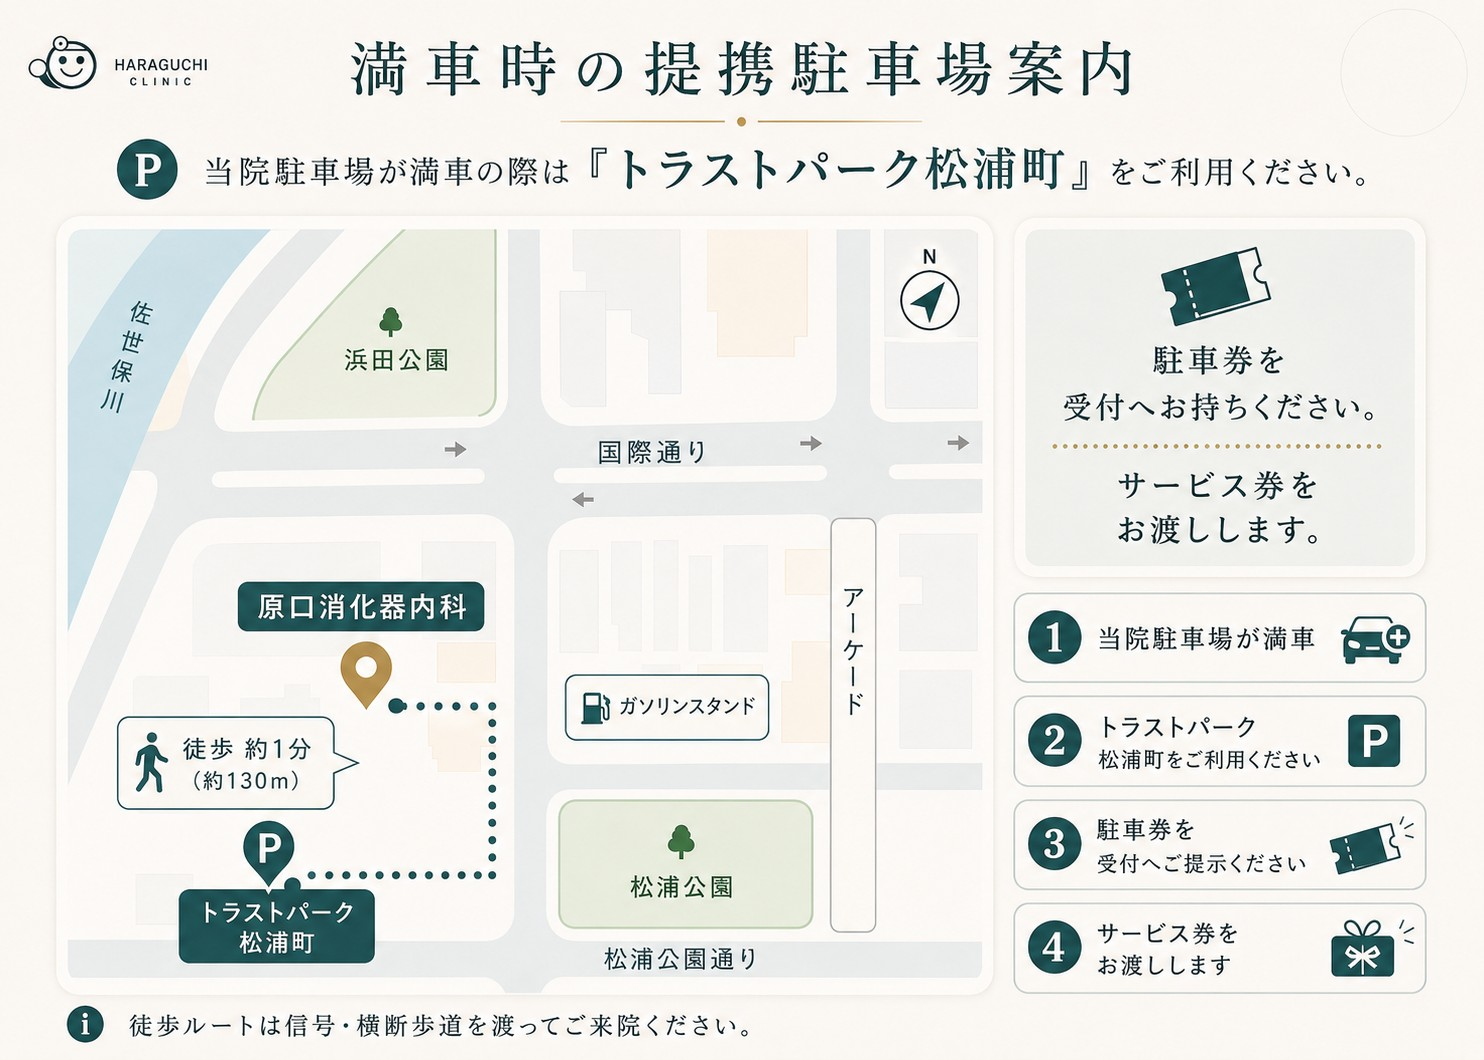
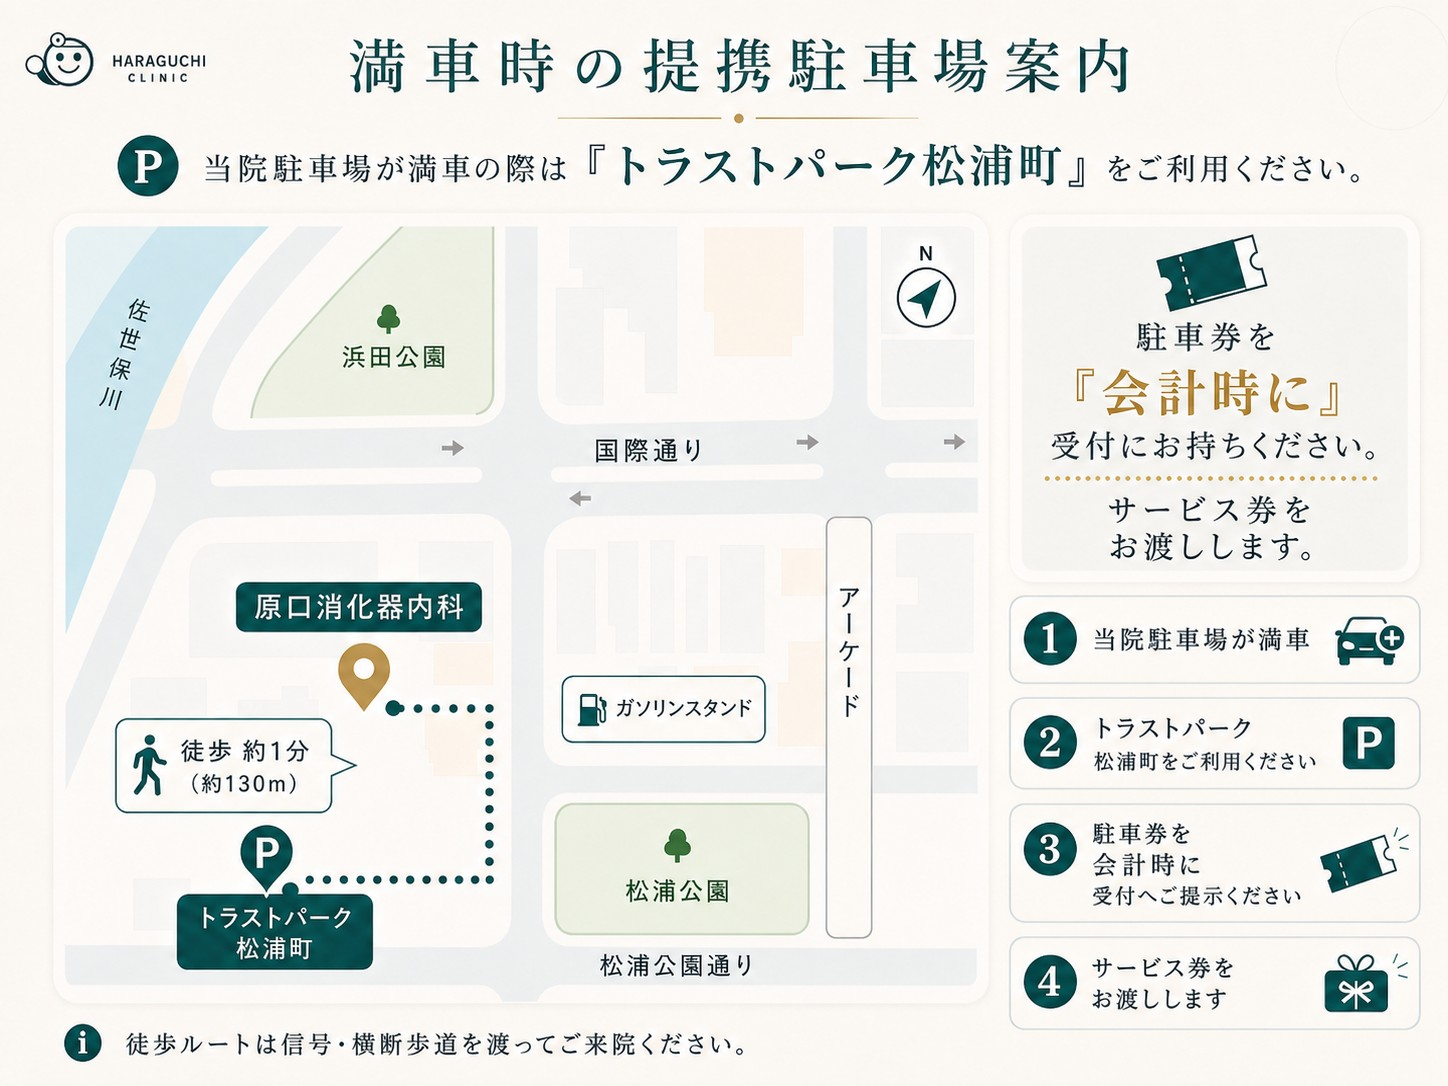
ワクチン・予約案内・駐車券の文言を実態に合わせて修正
肺炎球菌ワクチンが2種類あることを明記し、ワクチンは種類により予約要否が
異なる旨に統一。胃カメラは定期通院者も含めて事前予約が必要と修正し、
院内マスク着用のお願いを追加。駐車券は「会計時」に受付へ、という案内へ
文章・画像の両方を統一。

diff --git a/contact.html b/contact.html
@@ -98,7 +98,7 @@
                 <div class="section-head section-head--center" data-reveal>
                     <p class="kicker">Before Your Visit</p>
                     <h2 class="section-title" id="prepare-heading">ご来院前に</h2>
-                    <p class="section-lead">受診のしかた・持ち物・お支払いを、順にご案内します。</p>
+                    <p class="section-lead">受診のしかた・持ち物・お支払い・院内でのお願いを、順にご案内します。</p>
                 </div>
 
                 <div class="visit-steps">
@@ -122,7 +122,7 @@
                                 <h4 class="visit-subhead">そのほか、事前にお電話が必要な場合</h4>
                                 <ul class="visit-phone-list">
                                     <li>がん検診・特定健診・後期高齢者健診をご希望の方</li>
-                                    <li>受診当日に胃カメラをご希望の方<small>予約枠の状況により、当日は対応できないことがあります</small></li>
+                                    <li>胃カメラをご希望の方<small>定期的に通院されている方も含め、事前のご予約が必要です。受診当日のご希望は、予約枠の状況により対応できないことがあります</small></li>
                                 </ul>
                             </div>
                         </div>
@@ -159,6 +159,18 @@
                         <div class="visit-step-body">
                             <p class="visit-answer">お支払いは、<strong>現金のみ</strong>となります。</p>
                             <p class="visit-note">クレジットカード・電子マネー・QRコード決済などのキャッシュレス決済には対応しておりません。ご不便をおかけしますが、ご了承ください。</p>
+                        </div>
+                    </article>
+
+                    <article class="visit-step" data-motion="visit-step">
+                        <header class="visit-step-head">
+                            <span class="visit-step-number" aria-hidden="true">04</span>
+                            <h3 id="mask-heading">院内でのお願い</h3>
+                        </header>
+                        <div class="visit-step-body">
+                            <p class="visit-answer">院内では、<strong>マスクの着用</strong>にご協力をお願いしています。</p>
+                            <p class="visit-note">当院にはご高齢の患者さんや、検査・治療を受けられる患者さんも多く通院されています。院内での感染を防ぐため、ご来院の際はマスクの着用にご協力ください。</p>
+                            <p class="visit-note">マスクをお持ちでない方には、<strong>院内で販売もしております。</strong>受付までお気軽にお声がけください。</p>
                         </div>
                     </article>
                 </div>
@@ -200,7 +212,7 @@
                         <div class="faq-list">
                             <div class="faq-item">
                                 <p class="faq-q">予約は必要ですか？</p>
-                                <p class="faq-a">通常の診察は予約不要です。診療時間内に、そのままご来院ください。発熱・かぜ症状のある方、がん検診・特定健診・後期高齢者健診をご希望の方、受診当日に胃カメラをご希望の方は、事前にお電話ください。詳しくは<a href="#visit-method-heading">受診方法</a>をご覧ください。</p>
+                                <p class="faq-a">通常の診察は予約不要です。診療時間内に、そのままご来院ください。発熱・かぜ症状のある方、がん検診・特定健診・後期高齢者健診をご希望の方は、事前にお電話ください。胃カメラをご希望の方は、定期的に通院されている方も含め、事前のご予約が必要です。ワクチン接種は種類によってご予約が必要なものがありますので、お電話でお問い合わせください。詳しくは<a href="#visit-method-heading">受診方法</a>をご覧ください。</p>
                             </div>
                             <div class="faq-item">
                                 <p class="faq-q">どのような症状を診てもらえますか？</p>
@@ -238,7 +250,7 @@
                             </div>
                             <div class="faq-item">
                                 <p class="faq-q">駐車場はありますか？</p>
-                                <p class="faq-a">はい、当院専用の駐車場を5台分ご用意しています（屋外3台・1階屋内2台）。満車の場合は、徒歩約1分の提携駐車場「トラストパーク松浦町」をご利用のうえ、駐車券を受付へお持ちください。詳しくは<a href="access.html">アクセスページ</a>をご確認ください。</p>
+                                <p class="faq-a">はい、当院専用の駐車場を5台分ご用意しています（屋外3台・1階屋内2台）。満車の場合は、徒歩約1分の提携駐車場「トラストパーク松浦町」をご利用ください。駐車券は、お帰りの<strong>会計時に受付へお出しください。</strong>サービス券をお渡しします。詳しくは<a href="access.html">アクセスページ</a>をご確認ください。</p>
                             </div>
                         </div>
                     </section>

diff --git a/gastroscopy.html b/gastroscopy.html
@@ -135,7 +135,7 @@
           "name": "予約は必要ですか？",
           "acceptedAnswer": {
             "@type": "Answer",
-            "text": "定期的に通院されていない方が胃カメラ・胃がん検診をご希望の場合は、事前にお電話でご予約ください。受診当日に検査をご希望の場合、予約枠の状況により当日は対応できないことがあります。事前にお電話でご相談いただくとスムーズです。"
+            "text": "胃カメラ・胃がん検診をご希望の場合は、当院に定期的に通院されている方も含めて、事前にお電話でのご予約が必要です。受診当日に検査をご希望の場合、予約枠の状況により当日は対応できないことがありますので、事前にお電話でご相談ください。"
           }
         }
       ]
@@ -529,7 +529,7 @@
                         </header>
                         <div class="visit-step-body">
                             <p class="visit-answer">まずは<strong>お電話</strong>でご相談ください。</p>
-                            <p class="visit-note">定期的に通院されていない方が胃カメラ・胃がん検診をご希望の場合は、事前のご予約が必要です。受診当日に検査をご希望の場合、予約枠の状況により当日は対応できないことがあります。当院ではウェブからのご予約は承っておりません。</p>
+                            <p class="visit-note">胃カメラ・胃がん検診をご希望の場合は、<strong>当院に定期的に通院されている方も含めて、事前のご予約が必要です。</strong>受診当日に検査をご希望の場合、予約枠の状況により当日は対応できないことがあります。当院ではウェブからのご予約は承っておりません。</p>
                             <p class="visit-note">検査前のお食事・お飲みもの・お薬についてのご注意は、このご予約のときにご案内します。お薬は自己判断で中止せず、当院からの指示に従ってください。</p>
                             <p><a href="tel:0956-37-3777" class="btn btn-primary"><svg class="icon" aria-hidden="true"><use href="#icon-phone"/></svg>0956-37-3777</a></p>
                         </div>
@@ -658,7 +658,7 @@
                     </div>
                     <div class="faq-item" data-reveal>
                         <p class="faq-q">予約は必要ですか？</p>
-                        <p class="faq-a">定期的に通院されていない方が胃カメラ・胃がん検診をご希望の場合は、事前にお電話でご予約ください。受診当日に検査をご希望の場合、予約枠の状況により当日は対応できないことがあります。事前にお電話でご相談いただくとスムーズです。</p>
+                        <p class="faq-a">胃カメラ・胃がん検診をご希望の場合は、<strong>当院に定期的に通院されている方も含めて、事前にお電話でのご予約が必要です。</strong>受診当日に検査をご希望の場合、予約枠の状況により当日は対応できないことがありますので、事前にお電話でご相談ください。</p>
                     </div>
                     <div class="faq-item" data-reveal>
                         <p class="faq-q">大腸カメラもお願いできますか？</p>

diff --git a/service.html b/service.html
@@ -265,6 +265,7 @@
                     </header>
                     <div class="service-chapter-content">
                         <p>経験豊富な医師による、できるだけ苦痛の少ない胃カメラ（上部消化管内視鏡検査）を行っています。経口・経鼻に対応し、ご希望の方には鎮静剤を使った、うとうとした状態での検査も可能です。胃の不調が続く方、健診で指摘された方、ピロリ菌が気になる方は、お気軽にご相談ください。<strong>佐世保市の胃がん検診も、当院の胃カメラで受けられます。</strong></p>
+                        <p class="service-followup">胃カメラ・胃がん検診をご希望の場合は、当院に定期的に通院されている方も含めて、<strong>事前にお電話でのご予約が必要です。</strong></p>
                         <p>大腸カメラ（大腸内視鏡検査）も実施していますが、現在ご予約が大変混み合っております。お急ぎの場合やご予約の状況によっては、連携する近隣の医療機関をご紹介させていただくことがあります。</p>
                         <ul class="service-tags">
                             <li>胃カメラ（経口・経鼻）</li>
@@ -374,13 +375,13 @@
                         <h2>ワクチン・予防接種</h2>
                     </header>
                     <div class="service-chapter-content">
-                        <p>当院はワクチン接種に力を入れています。インフルエンザ、新型コロナ、帯状疱疹、肺炎球菌などの各種ワクチンに対応。帯状疱疹ワクチンは2種類をご用意しており、それぞれの特徴をご説明したうえで、ご希望に合わせてお選びいただけます。</p>
-                        <p>接種はお電話でのご予約をお願いします。市の助成制度が使える場合もありますので、対象かどうか分からない方もお気軽にお尋ねください。</p>
+                        <p>当院はワクチン接種に力を入れています。インフルエンザ、新型コロナ、帯状疱疹、肺炎球菌などの各種ワクチンに対応。<strong>帯状疱疹ワクチン・肺炎球菌ワクチンは、それぞれ2種類をご用意</strong>しており、それぞれの特徴をご説明したうえで、ご希望に合わせてお選びいただけます。</p>
+                        <p>ワクチンの種類によって、<strong>事前のご予約が必要なものと、ご予約なしで接種できるものがあります。</strong>ご希望のワクチンについては、お電話でお問い合わせください。市の助成制度が使える場合もありますので、対象かどうか分からない方もお気軽にお尋ねください。</p>
                         <ul class="service-tags">
                             <li>インフルエンザワクチン</li>
                             <li>新型コロナワクチン</li>
                             <li>帯状疱疹ワクチン（2種類）</li>
-                            <li>肺炎球菌ワクチン</li>
+                            <li>肺炎球菌ワクチン（2種類）</li>
                             <li>その他の予防接種（要相談）</li>
                         </ul>
                     </div>

diff --git a/access.html b/access.html
@@ -149,11 +149,11 @@
                             <p>提携駐車場の「トラストパーク松浦町」をご利用ください。当院から徒歩約1分（約130m）です。</p>
                             <p class="ticket-note">
                                 <svg class="icon" aria-hidden="true"><use href="#icon-ticket"/></svg>
-                                駐車券を受付へお持ちください。サービス券をお渡しします。
+                                <span>駐車券は、ご来院時ではなく<strong>お帰りの「会計時」に受付へお出しください。</strong>サービス券をお渡しします。</span>
                             </p>
                             <figure class="parking-figure">
                                 <button class="parking-zoom-trigger" type="button" aria-label="満車時の提携駐車場案内画像を拡大表示">
-                                    <img src="images/trustpark-matsuura-guide.jpg" width="1484" height="1060" loading="lazy" alt="当院からトラストパーク松浦町までの徒歩ルートと、駐車券を受付へ持参する手順の案内地図">
+                                    <img src="images/trustpark-matsuura-guide.jpg" width="1448" height="1086" loading="lazy" alt="当院からトラストパーク松浦町までの徒歩ルートと、駐車券を会計時に受付へお出しいただく手順の案内地図">
                                     <span class="parking-zoom-hint" aria-hidden="true"><span class="parking-zoom-icon"></span>タップで拡大</span>
                                 </button>
                                 <figcaption>満車時の提携駐車場「トラストパーク松浦町」案内</figcaption>

diff --git a/index.html b/index.html
@@ -192,7 +192,7 @@
                             <dd>水曜午後・土曜午後・日曜・祝日</dd>
                         </div>
                     </dl>
-                    <p class="hero-card-visit-note"><span><strong>通常の診察</strong> 基本的に予約不要です</span><span><strong>事前に電話</strong> 胃カメラ・健診・発熱症状など</span></p>
+                    <p class="hero-card-visit-note"><span><strong>通常の診察</strong> 基本的に予約不要です</span><span><strong>事前に電話予約</strong> 胃カメラ・健診・発熱症状など</span></p>
                     <div class="hero-card-links">
                         <a href="#clinic-info" class="hero-card-link">
                             診療時間・カレンダー

diff --git a/docs/CLINIC_FACTS.md b/docs/CLINIC_FACTS.md
@@ -96,8 +96,9 @@
 - 胃カメラ（胃内視鏡検査 / 経口・経鼻、鎮静剤を使った検査、ピロリ菌検査・除菌）
 - 佐世保市のがん検診（胃・大腸・肺）・特定健診・後期高齢者健診・節目検診（40・50・60歳）
 - 生活習慣病の管理（高血圧症・脂質異常症・糖尿病・脂肪肝・肝機能障害、健診結果のフォロー、食事・運動療法）
-- ワクチン・予防接種（インフルエンザ、新型コロナ、帯状疱疹〔2種類〕、肺炎球菌、その他は要相談）
+- ワクチン・予防接種（インフルエンザ、新型コロナ、帯状疱疹〔2種類〕、肺炎球菌〔2種類〕、その他は要相談）
   - 肺炎球菌ワクチンは、オーナー（ユーザー）より 2026-07 に対応と確認。
+  - **肺炎球菌ワクチンも2種類を取り扱う**（2026-07 オーナー確認）。帯状疱疹と同様、特徴を説明して選んでもらう運用。
 - 発熱・かぜ症状への対応
 - 地域の基幹病院との連携（緊急時・高度医療が必要な場合の紹介）
 
@@ -108,9 +109,12 @@
 
 - 通常の診察は基本的に予約不要。
 - 発熱外来は電話予約が必要。
-- 定期通院していない方の胃カメラを含むがん検診、特定健診などは電話予約が必要。
-  - ワクチン接種は、2026-07 にオーナー（ユーザー）より「電話予約が必要とは案内しない」と確認。
-    サイトの「事前にお電話が必要な場合」には載せないこと。
+- **胃カメラ（胃内視鏡検査）・胃がん検診は、定期通院している方も含めて事前の電話予約が必要**
+  （2026-07 オーナー確認。「定期通院していない方のみ予約が必要」という以前の案内は誤りのため修正済み）。
+- がん検診、特定健診などは電話予約が必要。
+- ワクチン接種は、**種類によって事前予約が必要なものと、予約なしで接種できるものがある**
+  （2026-07 オーナー確認）。一律に「予約が必要」とも「予約不要」とも書かず、
+  「ご希望のワクチンについてはお電話でお問い合わせください」と案内する。
 - 受診当日に胃カメラなどの検査を希望する場合、予約枠の状況により当日対応できないことがある。事前の電話相談を案内する。
 
 ### お支払い
@@ -118,6 +122,13 @@
 - **現金のみ**。クレジットカード・電子マネー・QRコード決済などのキャッシュレス決済には対応していない。
 - 出典: クリニックオーナー（ユーザー）の一次情報として 2026-07 に確認。
 - 対応状況が変わった場合は `contact.html` の「持ち物 > お支払い」も更新すること。
+
+### 院内でのお願い（マスク着用）
+
+- 出典: クリニックオーナー（ユーザー）の一次情報として 2026-07 に確認。
+- **院内では感染対策としてマスクの着用に協力してもらっている。**
+- **マスクを持っていない方には院内で販売もしている**（受付で声がけ）。
+- 掲載場所: `contact.html`「ご来院前に > 04 院内でのお願い」。
 
 ### 院内で行う検査
 
@@ -187,7 +198,9 @@
 - 受付・入口は2階。**エレベーターがあり、車椅子での来院も可能**（2026-07 オーナー確認）。
 - 西肥バス「松浦町中央公園口」「松浦町国際通り」バス停から徒歩約3〜5分。
 - **専用駐車場**: 5台。
-- **提携駐車場**: トラストパーク松浦町（当院から徒歩約1分・約130m）。満車時に利用可。駐車券を受付に提示するとサービス券を渡す運用。
+- **提携駐車場**: トラストパーク松浦町（当院から徒歩約1分・約130m）。満車時に利用可。
+  駐車券は**来院時ではなく「会計時」に受付へ出してもらい**、サービス券を渡す運用
+  （2026-07 オーナー確認。来院直後に渡されると対応できないため、タイミングを明記する）。
 
 ### 緯度・経度（JSON-LD `geo` 用）
 
